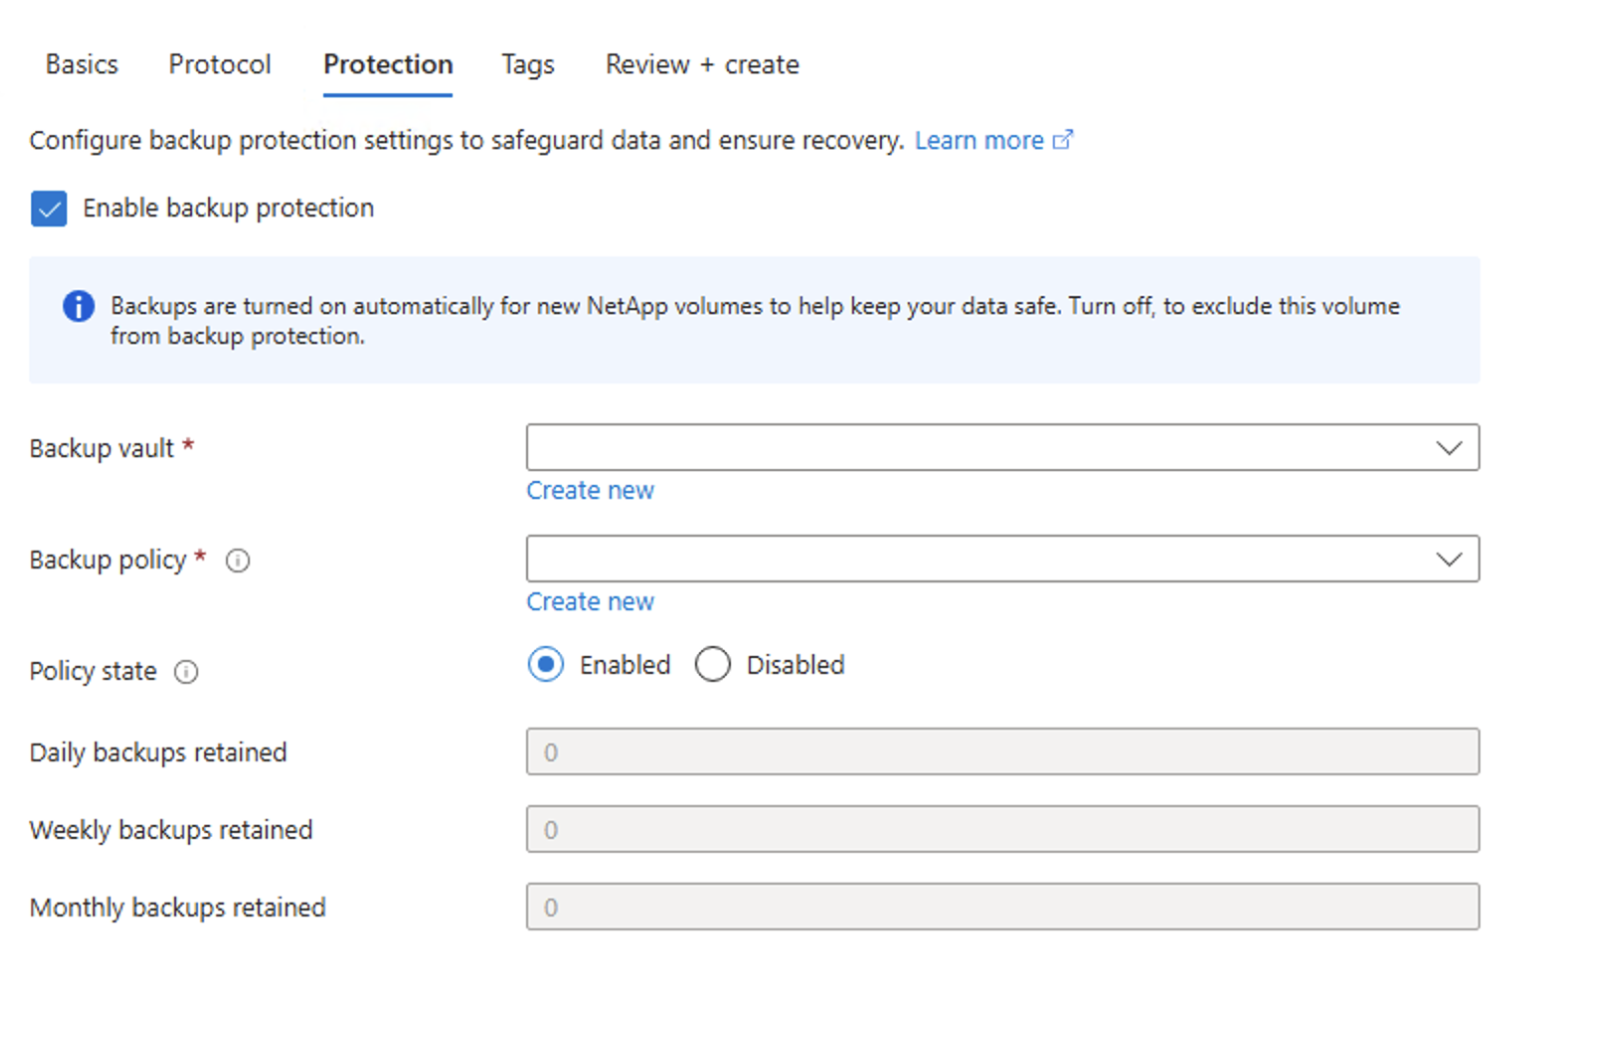
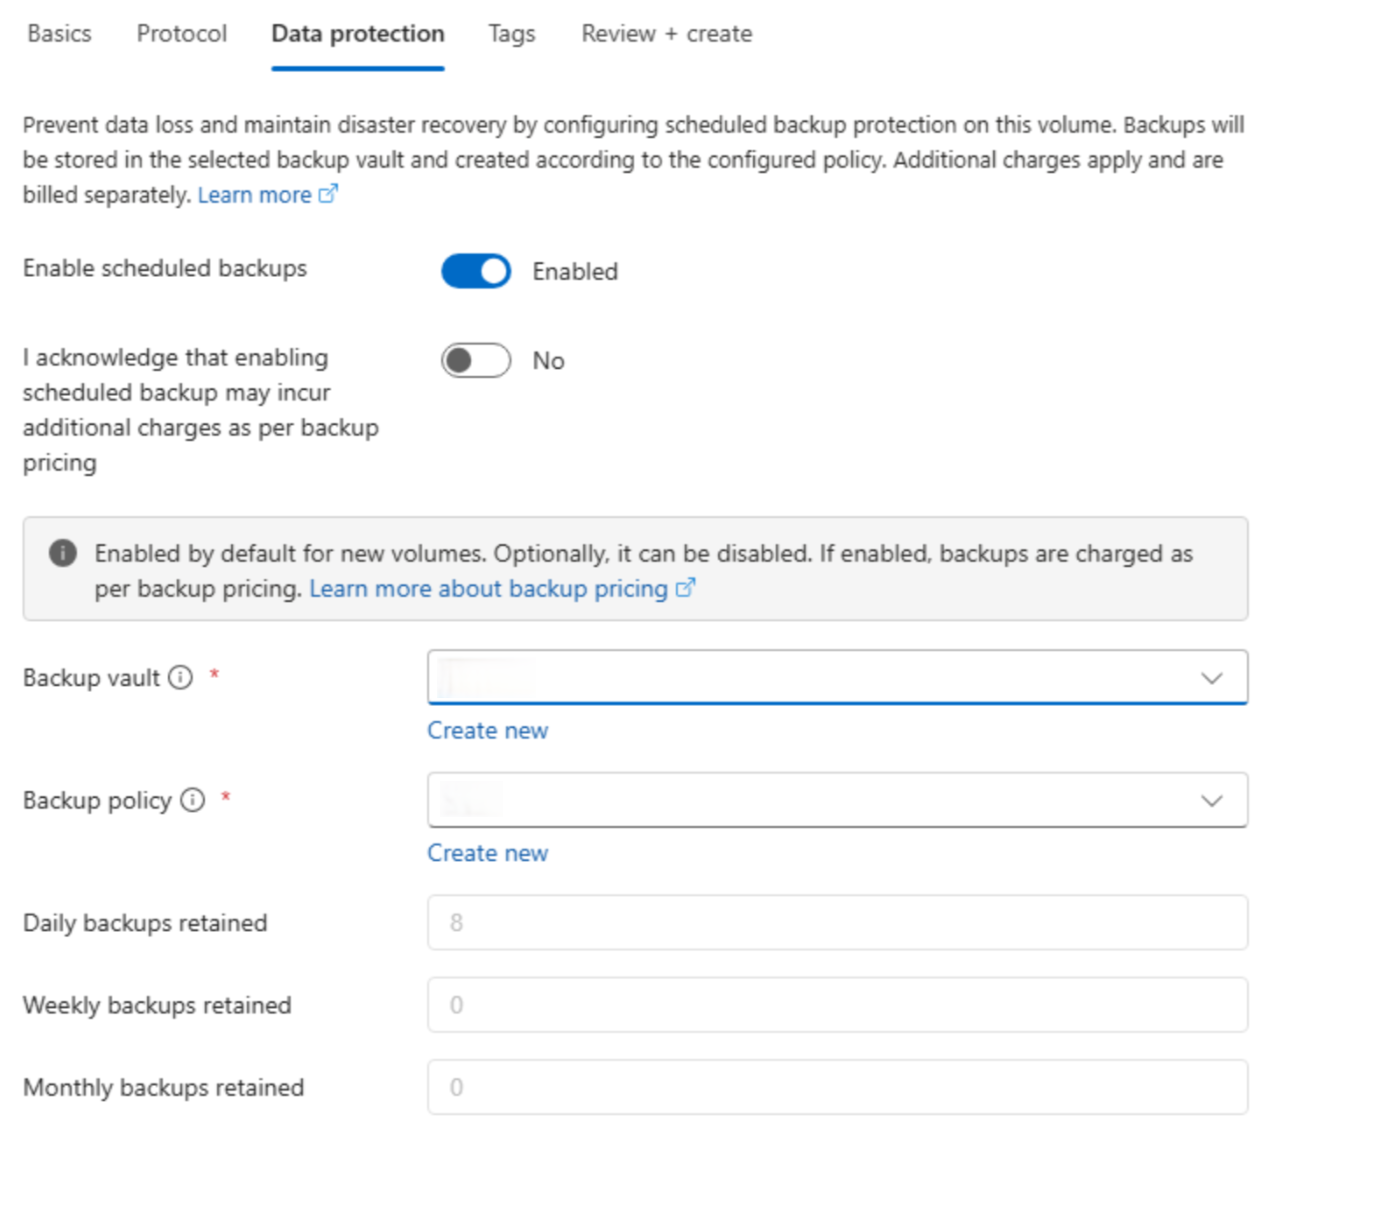
Updating comments

diff --git a/articles/azure-netapp-files/protect-volumes.md b/articles/azure-netapp-files/protect-volumes.md
@@ -14,25 +14,26 @@ You can protect your existing volume by enabling backup protection for the volum
 
 ## Protect volumes
 
-1. From the **Volumes** page, right-click the volume for which you want to enable backup protection and select **Protection**.
+1. From the **Volumes** page, right-click the volume for which you want to enable backup protection and select **Data Protection**.
+
+    >[!NOTE]
+    > Enabling scheduled backup may incur additional charges as per backup pricing. You must enable this option to proceed with enabling scheduled backup.
+
 1. Specify the parameters for the volume:
 
     **Backup vault**      
-     Specify the backup vault for the volume or [create a new backup vault](backup-vault-manage.md). 
-            
+        Specify the backup vault for the volume or [create a new backup vault](backup-vault-manage.md). 
+        
     **Backup policy**  
-      Specify the backup policy for the volume or [create a new backup policy](backup-configure-policy-based.md).
+        Specify the backup policy for the volume or [create a new backup policy](backup-configure-policy-based.md). You can select only an enabled backup policy. The daily, weekly, and monthly backup retention periods are displayed based on the selected backup policy.  
 
-   **Policy state**  
-     Select the state of the backup policy.  
+    **Daily backups retained**  
+        Specifies the number of backups that can be retained on a daily basis.
 
-   **Daily backups retained**  
-     Specifies the number of backups that can be retained on a daily basis.
+    **Weekly backups retained**  
+        Specifies the number of backups that can be retained on a weekly basis. 
 
-   **Weekly backups retained**  
-     Specifies the number of backups that can be retained on a weekly basis. 
-
-   **Monthly backups retained**  
-    Specifies the number of backups that can be retained on a monthly basis.
+    **Monthly backups retained**  
+        Specifies the number of backups that can be retained on a monthly basis.
 
 1. Click **Ok**.

diff --git a/articles/azure-netapp-files/azure-netapp-files-create-volumes-smb.md b/articles/azure-netapp-files/azure-netapp-files-create-volumes-smb.md
@@ -128,32 +128,9 @@ Before creating an SMB volume, you need to create an Active Directory connection
 
     :::image type="content" source="./media/azure-netapp-files-create-volumes-smb/azure-netapp-files-protocol-smb.png" alt-text="Screenshot showing the Protocol tab of creating an SMB volume." lightbox="./media/azure-netapp-files-create-volumes-smb/azure-netapp-files-protocol-smb.png":::
 
-4. Select **Protection** to configure backup protection settings:
+5. [!INCLUDE [Create volume protection tab](includes/create-volume-protection.md)]
 
-    >[!NOTE]
-    >If you do not want to enable data protection on the volume, deselect the **Enable backup protection** checkbox.
-
-    :::image type="content" source="./media/azure-netapp-files-create-volumes-smb/backup-protection-volume.png" alt-text="Screenshot showing the Protection tab of creating an SMB volume." lightbox="./media/azure-netapp-files-create-volumes-smb/backup-protection-volume.png":::
-
-    * **Backup vault**      
-        Specify the backup vault for the volume or [create a new backup vault](backup-vault-manage.md). 
-        
-    * **Backup policy**  
-        Specify the backup policy for the volume or [create a new backup policy](backup-configure-policy-based.md).
-
-    * **Policy state**  
-        Select the state of the backup policy.  
-
-    * **Daily backups retained**  
-        Specifies the number of backups that can be retained on a daily basis.
-
-    * **Weekly backups retained**  
-        Specifies the number of backups that can be retained on a weekly basis. 
-
-    * **Monthly backups retained**  
-        Specifies the number of backups that can be retained on a monthly basis.
-
-5. Select **Review + Create** to review the volume details. Then select **Create** to create the SMB volume.
+6. Select **Review + Create** to review the volume details. Then select **Create** to create the SMB volume.
 
     The volume you created appears in the Volumes page. 
  

diff --git a/articles/azure-netapp-files/includes/create-volume-protection.md b/articles/azure-netapp-files/includes/create-volume-protection.md
@@ -1,0 +1,44 @@
+---
+author: b-mchabbria
+ms.service: azure-netapp-files
+ms.topic: include
+ms.date: 02/11/2026
+ms.author: anfdocs
+ms.custom:
+  - include file
+  
+
+# azure-netapp-files-create-volumes.md
+# azure-netapp-files-create-volumes-smb.md
+# create-volumes-dual-protocol.md
+
+# Customer intent: "As a IT administrator, I want to configure the backup protection settings to protect my volume."
+---
+
+. Select **Data Protection** to configure backup protection settings:
+
+    >[!NOTE]
+    >By default, the **Enable scheduled backup** option is enabled. If you do not want to enable data scheduled backup on the volume, you can disable the **Enable scheduled backup** option.
+
+    :::image type="content" source="./media/azure-netapp-files-create-volumes-smb/backup-protection-volume.png" alt-text="Screenshot showing the Protection tab of creating a volume." lightbox="./media/azure-netapp-files-create-volumes-smb/backup-protection-volume.png":::
+
+    >[!NOTE]
+    > Enabling scheduled backup may incur additional charges as per backup pricing. You must enable this option to proceed with enabling scheduled backup.
+
+    * **Backup vault**      
+        Specify the backup vault for the volume or [create a new backup vault](backup-vault-manage.md). 
+        
+    * **Backup policy**  
+        Specify the backup policy for the volume or [create a new backup policy](backup-configure-policy-based.md).
+
+        You can select only an enabled backup policy. The daily, weekly, and monthly backup retention periods are displayed based on the selected backup policy.  
+
+    * **Daily backups retained**  
+        Specifies the number of backups that can be retained on a daily basis.
+
+    * **Weekly backups retained**  
+        Specifies the number of backups that can be retained on a weekly basis. 
+
+    * **Monthly backups retained**  
+        Specifies the number of backups that can be retained on a monthly basis.
+

diff --git a/articles/azure-netapp-files/create-volumes-dual-protocol.md b/articles/azure-netapp-files/create-volumes-dual-protocol.md
@@ -168,30 +168,7 @@ To create NFS volumes, see [Create an NFS volume](azure-netapp-files-create-volu
 
     ![Specify dual-protocol](./media/create-volumes-dual-protocol/create-volume-protocol-dual.png)
 
-4. Select **Protection** to configure backup protection settings:
-
-    >[!NOTE]
-    >If you do not want to enable data protection on the volume, deselect the **Enable backup protection** checkbox.
-
-    :::image type="content" source="./media/azure-netapp-files-create-volumes-smb/backup-protection-volume.png" alt-text="Screenshot showing the Protection tab of creating a dual protocol volume." lightbox="./media/azure-netapp-files-create-volumes-smb/backup-protection-volume.png":::
-
-    * **Backup vault**      
-        Specify the backup vault for the volume or [create a new backup vault](backup-vault-manage.md). 
-        
-    * **Backup policy**  
-        Specify the backup policy for the volume or [create a new backup policy](backup-configure-policy-based.md).
-
-    * **Policy state**  
-        Select the state of the backup policy.  
-
-    * **Daily backups retained**  
-        Specifies the number of backups that can be retained on a daily basis.
-
-    * **Weekly backups retained**  
-        Specifies the number of backups that can be retained on a weekly basis. 
-
-    * **Monthly backups retained**  
-        Specifies the number of backups that can be retained on a monthly basis.
+4. [!INCLUDE [Create volume protection tab](includes/create-volume-protection.md)]
 
 5. Select **Review + Create** to review the volume details. Then select **Create** to create the volume.
 

diff --git a/articles/azure-netapp-files/azure-netapp-files-create-volumes.md b/articles/azure-netapp-files/azure-netapp-files-create-volumes.md
@@ -147,30 +147,7 @@ This article shows you how to create an NFS volume. For SMB volumes, see [Create
 
     ![Specify NFS protocol](./media/azure-netapp-files-create-volumes/azure-netapp-files-protocol-nfs.png)
 
-4. Select **Protection** to configure backup protection settings:
-
-    >[!NOTE]
-    >If you do not want to enable data protection on the volume, deselect the **Enable backup protection** checkbox.
-
-    :::image type="content" source="./media/azure-netapp-files-create-volumes-smb/backup-protection-volume.png" alt-text="Screenshot showing the Protection tab of creating a volume." lightbox="./media/azure-netapp-files-create-volumes-smb/backup-protection-volume.png":::
-
-    * **Backup vault**      
-        Specify the backup vault for the volume or [create a new backup vault](backup-vault-manage.md). 
-        
-    * **Backup policy**  
-        Specify the backup policy for the volume or [create a new backup policy](backup-configure-policy-based.md).
-
-    * **Policy state**  
-        Select the state of the backup policy.  
-
-    * **Daily backups retained**  
-        Specifies the number of backups that can be retained on a daily basis.
-
-    * **Weekly backups retained**  
-        Specifies the number of backups that can be retained on a weekly basis. 
-
-    * **Monthly backups retained**  
-        Specifies the number of backups that can be retained on a monthly basis.
+4. [!INCLUDE [Create volume protection tab](includes/create-volume-protection.md)]
    
 5. Select **Review + Create** to review the volume details. Select **Create** to create the volume.
 

diff --git a/articles/azure-netapp-files/backup-configure-policy-based.md b/articles/azure-netapp-files/backup-configure-policy-based.md
@@ -41,12 +41,14 @@ To enable a policy-based (scheduled) backup:
 
 4. Select **Backup Policies**.
 5. Select **Add**. 
-6. In the **Backup Policy** page, specify the backup policy name.  Enter the number of backups that you want to keep for daily, weekly, and monthly backups. Select **Save**.      
+6. In the **Backup Policy** page, select the backup policy template and then specify the backup policy name. 
 
-    The minimum value for **Daily Backups to Keep** is 2. 
-
+    >[!NOTE]
+    >You can enter the number of backups that you want to keep for daily, weekly, and monthly backups only for **Custom** backup policy template. The minimum value for **Daily Backups to Keep** is 2. 
+  
     :::image type="content" source="./media/backup-configure-policy-based/backup-policy-window-daily.png" alt-text="Screenshot that shows the Backup Policy window." lightbox="./media/backup-configure-policy-based/backup-policy-window-daily.png":::
- 
+ 7. Select **Save**.      
+
 ### Example of a valid configuration
 
 The following example configuration shows you how to configure a data protection policy on the volume. This configuration results in backing up 15 latest daily snapshots, 6 latest weekly snapshots, and 4 latest monthly snapshots.

diff --git a/articles/azure-netapp-files/whats-new.md b/articles/azure-netapp-files/whats-new.md
@@ -19,9 +19,9 @@ Azure NetApp Files is updated regularly. This article provides a summary about t
 
 ## April 2026
 
-* [Enable backup by default](protect-volumes.md)
+* [Enable backup by default](protect-volumes.md) is now generally available (GA)
     
-    Azure NetApp Files now supports enabling backup by default during volume creation. This enhances data protection with an additional layer of protection without the need for manual setup.
+    Azure NetApp Files now enables backup by default when creating new volumes, delivering a more seamless and secure data protection experience. Backups are automatically provisioned during volume creation, reducing setup effort while still allowing customers to opt out when needed. This enhancement improves usability, strengthens data resilience. This feature is available in all Azure NetApp Files supported regions.
 
 ## January 2026
 
